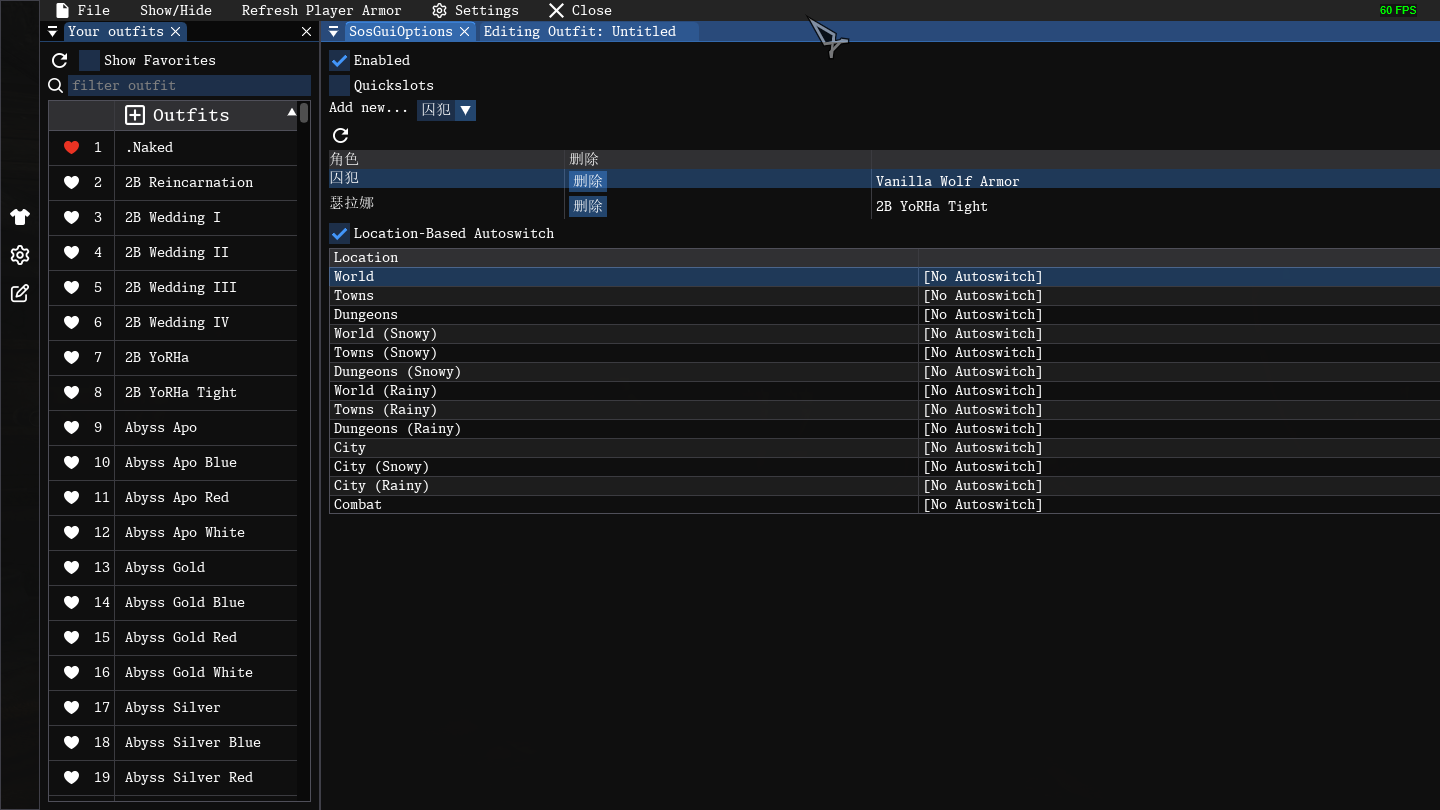
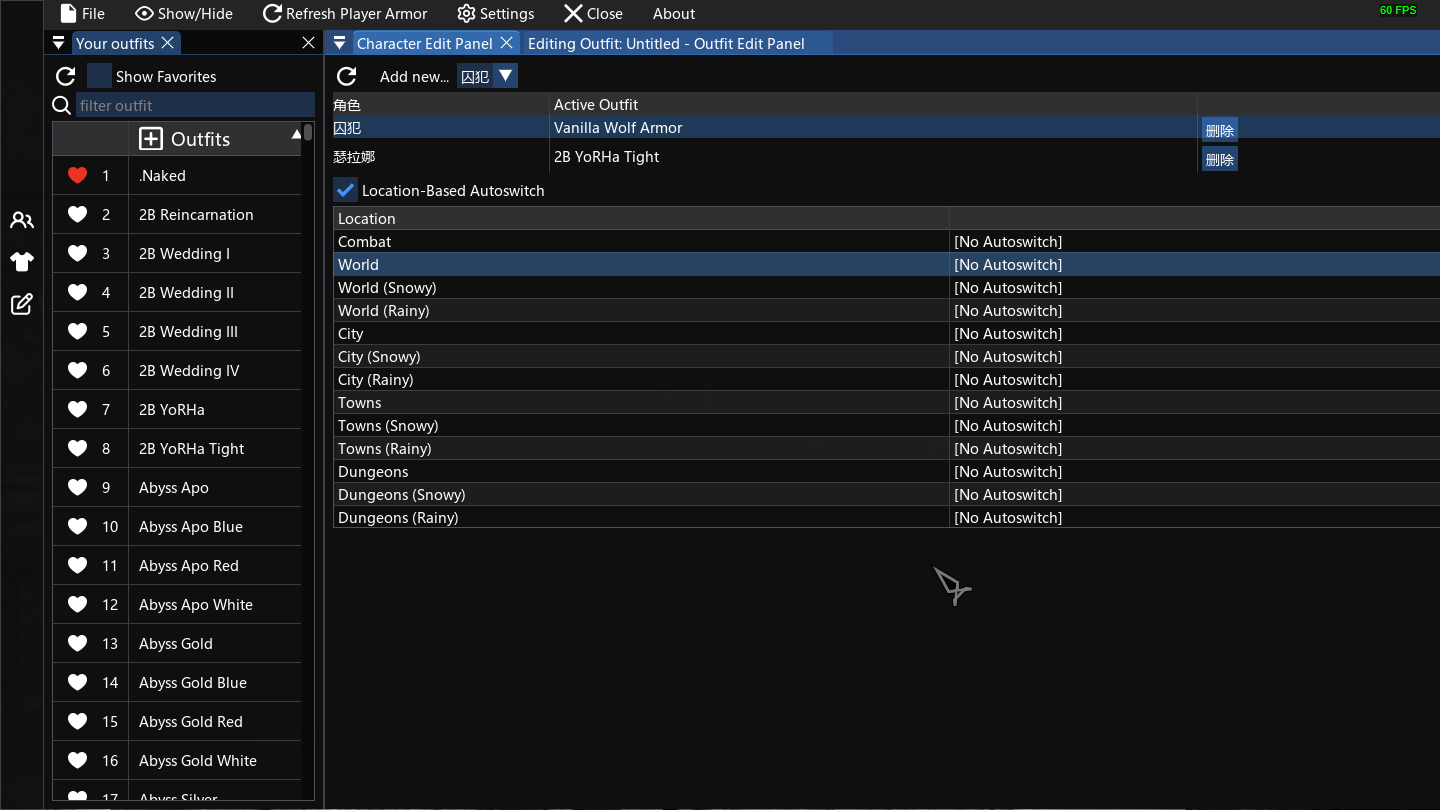
SosGui: update assets

Changed region(s): [[0.0, 0.0, 1.0, 1.0], [0.6562, 0.7099, 0.6875, 0.7407]]

diff --git a/dev/ImGuiTest.cpp b/dev/ImGuiTest.cpp
@@ -13,10 +13,10 @@
 #include "Status.h"
 #include "common/WCharUtils.h"
 #include "common/toml++/toml.hpp"
-#include "imgui_freetype.h"
 #include "imgui_impl_dx11.h"
 #include "imgui_impl_win32.h"
 #include "imgui_internal.h"
+#include "misc/freetype/imgui_freetype.h"
 #include "spdlog/spdlog.h"
 
 #include <array>
@@ -32,6 +32,8 @@
 #pragma comment(lib, "dwrite.lib")
 #pragma comment(lib, "dxguid.lib")
 #pragma comment(lib, "dinput8.lib")
+#pragma comment(lib, "d3d11.lib")
+#pragma comment(lib, "Comctl32.lib")
 
 using namespace std::literals;
 

diff --git a/SosGui/ChangeLogs.md b/SosGui/ChangeLogs.md
@@ -64,5 +64,5 @@
 	- `Noto Color Emoji` can't work with plutosvg + freetype.. This feature need delay, rollback SVG support ;
 - [x] [[improvement]] Add vertical padding for Menubar ;
 - [ ] gamepad control？
-- [ ] rename Main window `SosGuiOptions`-> `Characters Edit Panel`?
+- [x] rename Main window `SosGuiOptions`-> `Characters Edit Panel`?
 - [x] refresh UI favorite outfits list when unmark a outfit;
